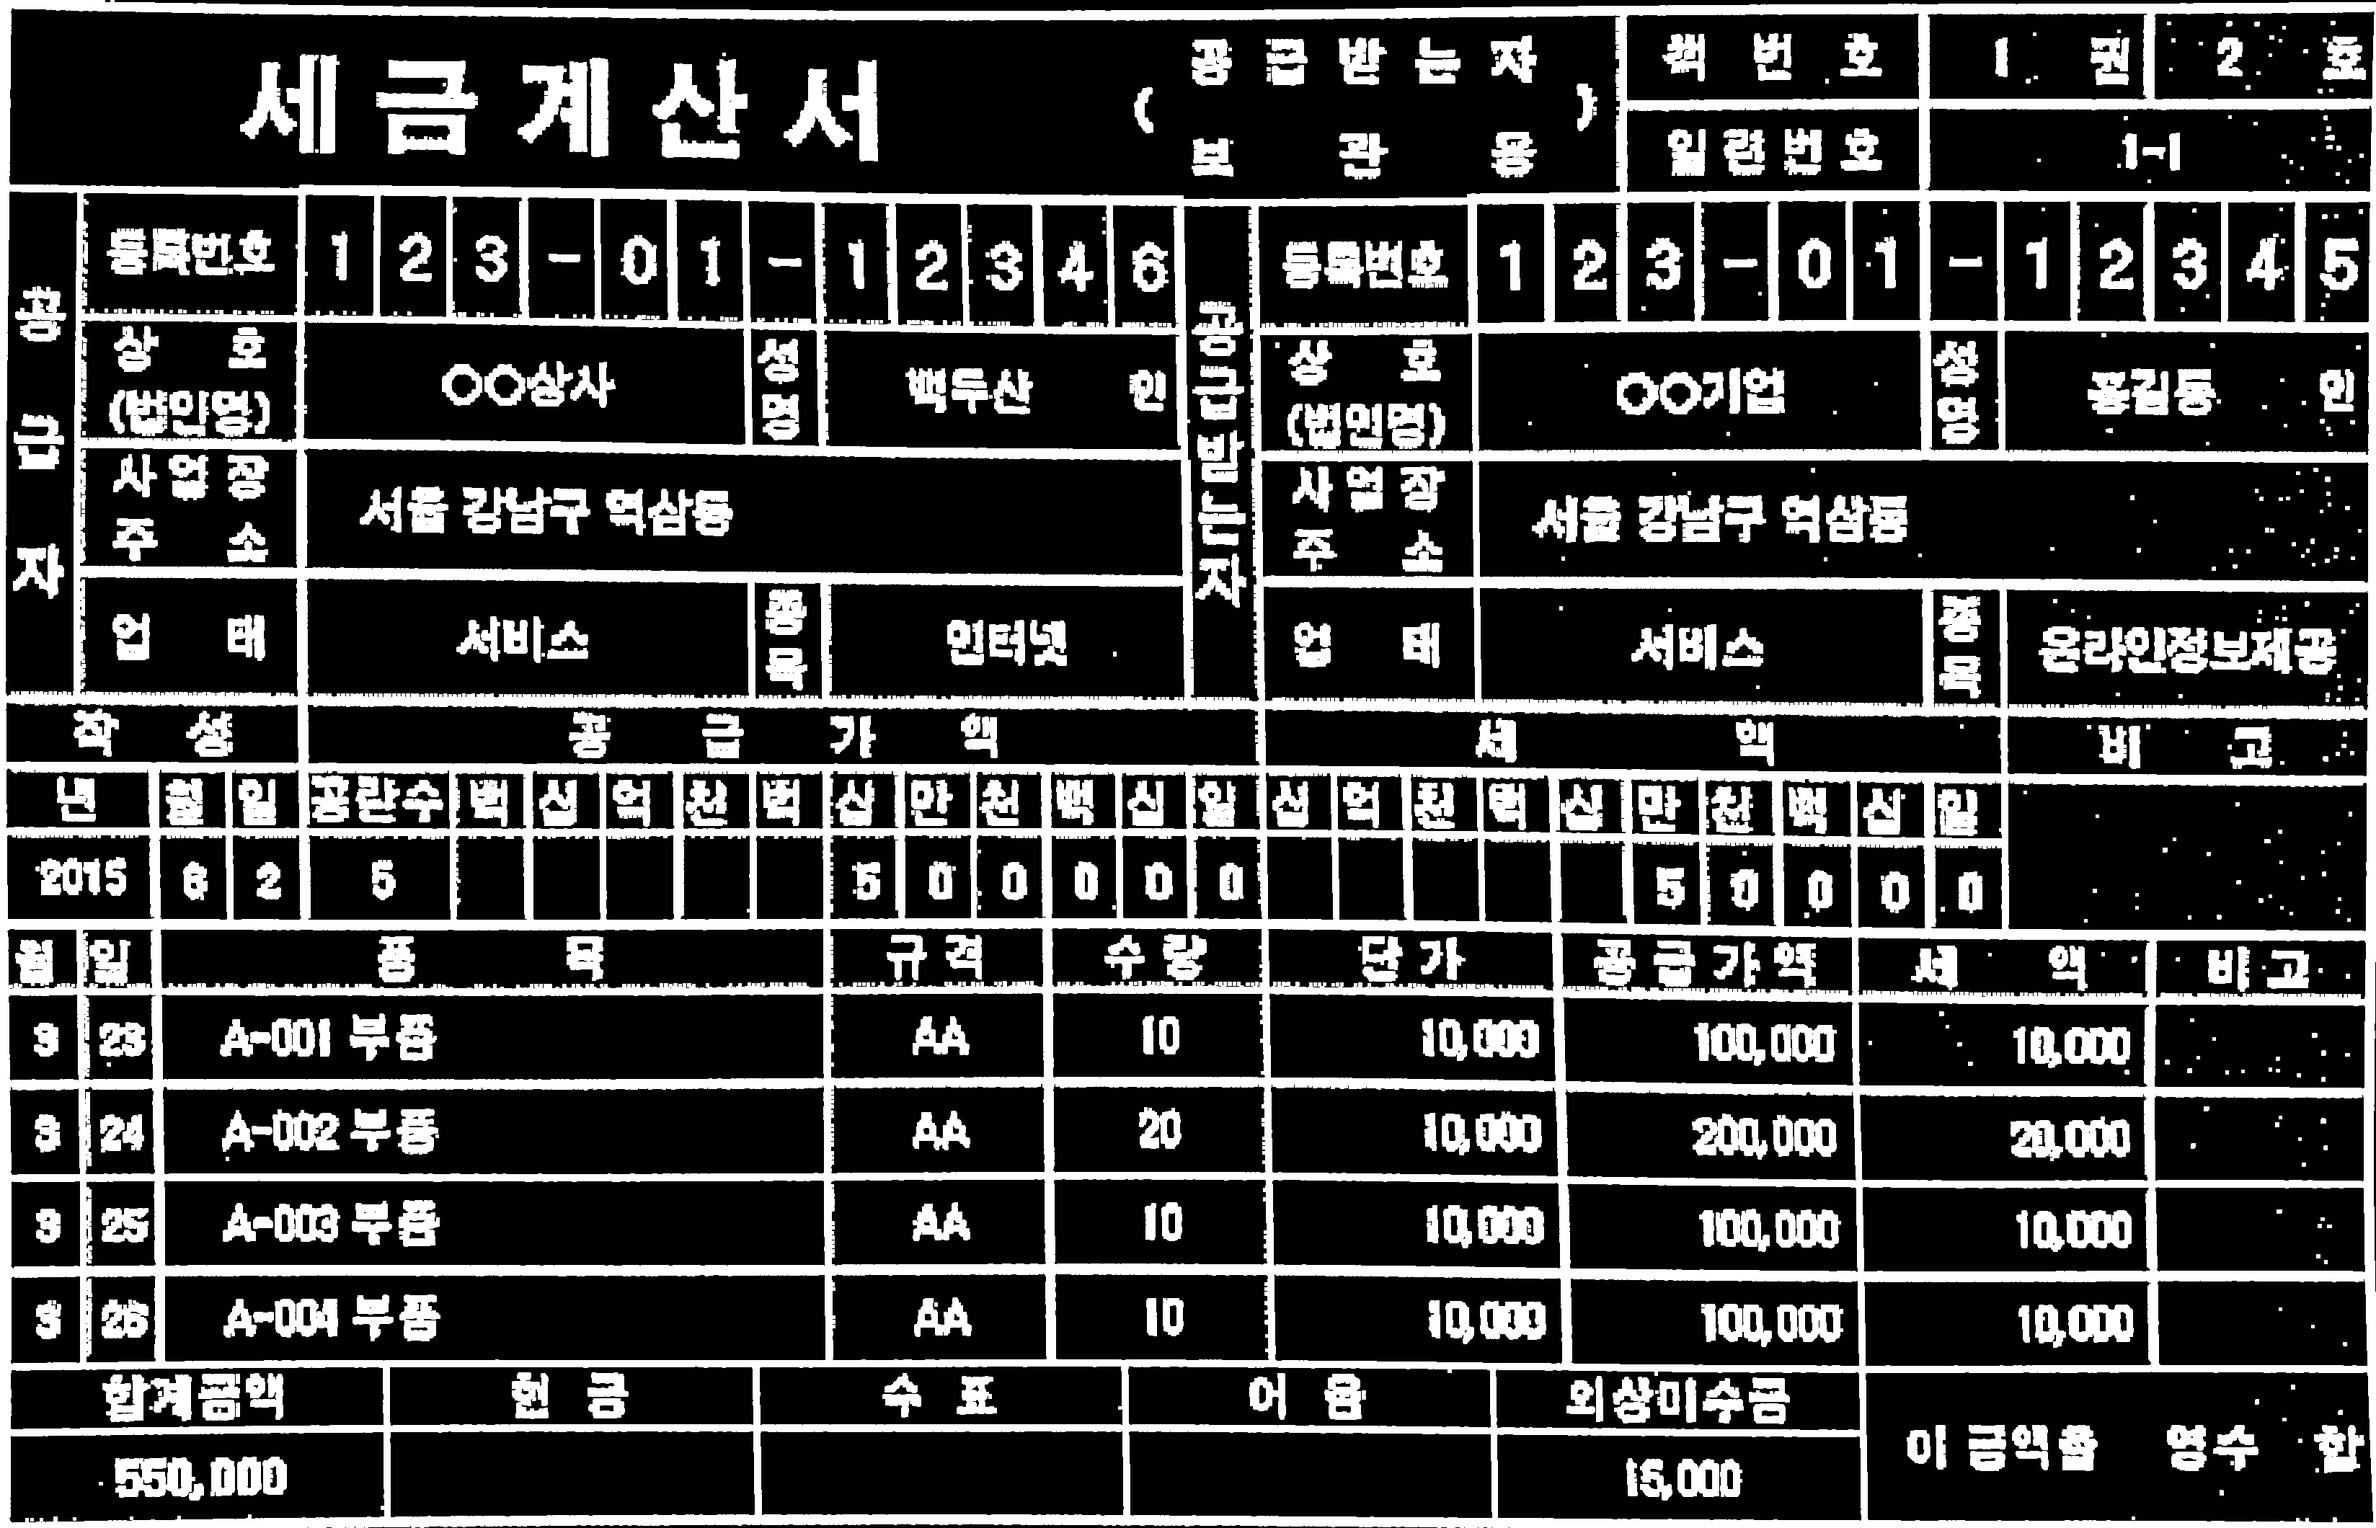
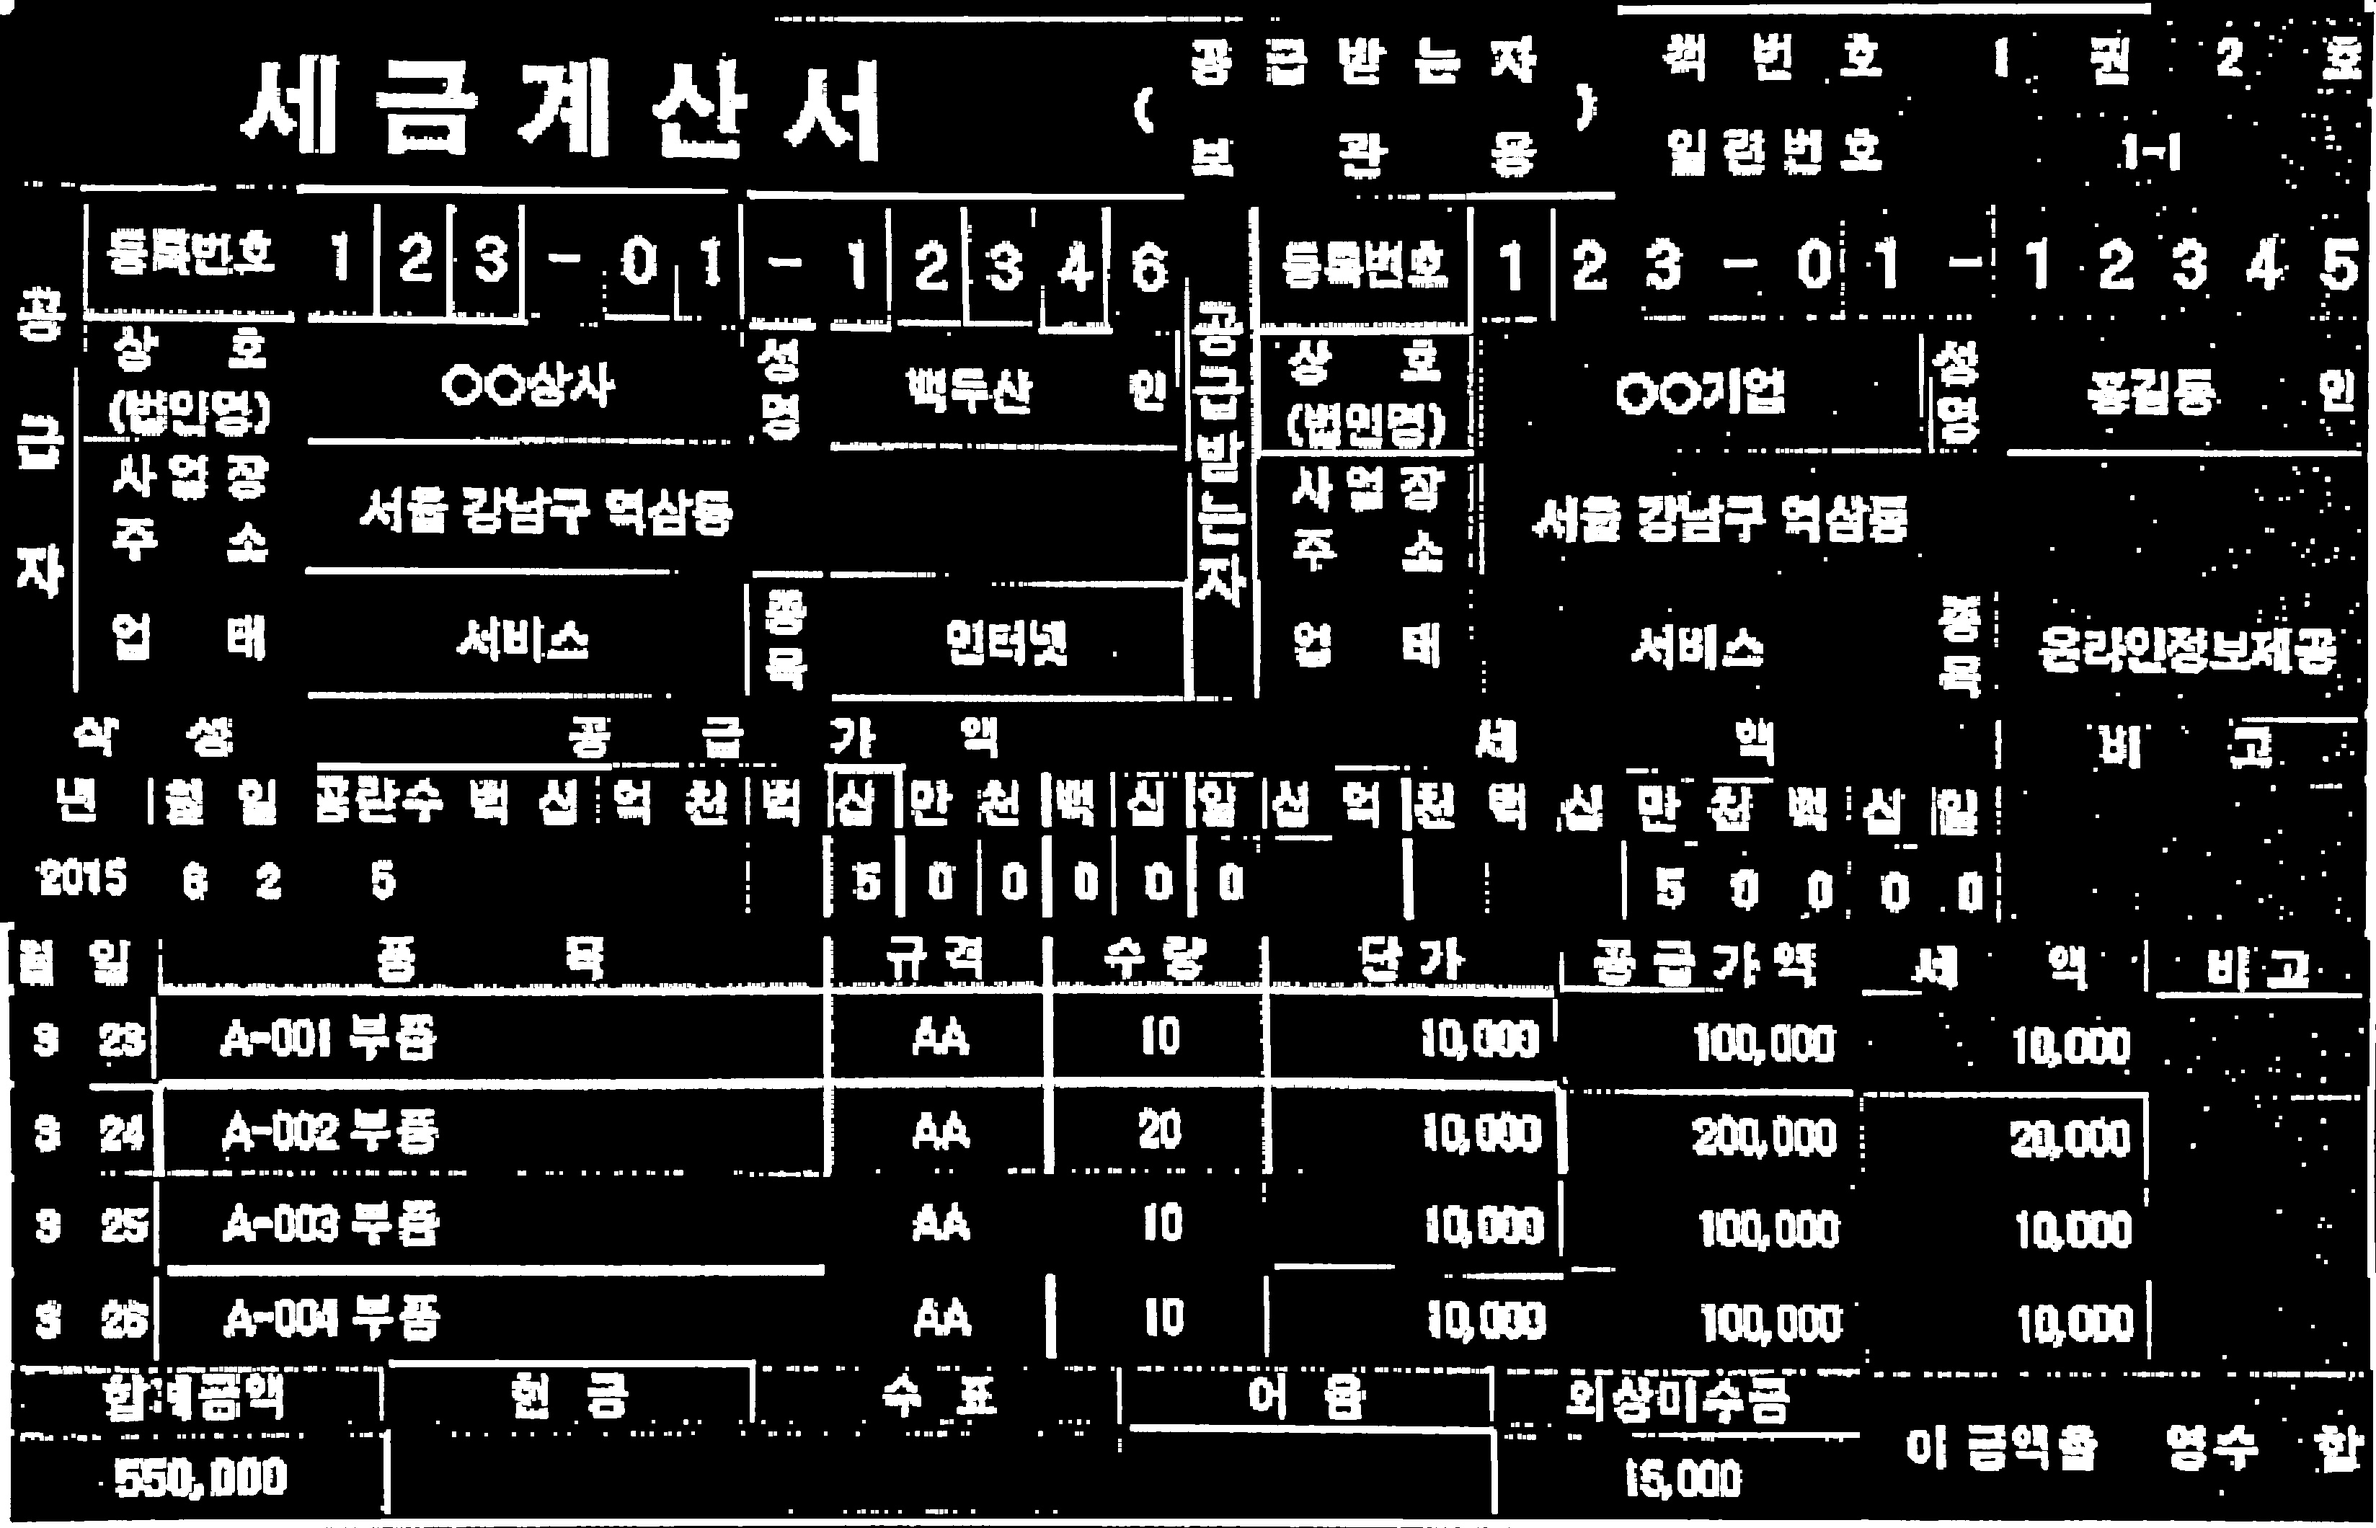
test

Changed region(s): [[0.0, 0.0, 1.0, 1.0], [0.625, 0.934, 0.75, 0.9651]]

diff --git a/server/MakeTable/Preprocessing.py b/server/MakeTable/Preprocessing.py
@@ -24,6 +24,8 @@ class Preprocessing(object):
 
         #self.Origin_image = cv2.imread(img_file)
         self.Origin_image = self.img.copy()
+        print("#######")
+        print(self.Origin_image.shape)
         self.line_image = self.img * 0  # image that only lines will be drawn
         self.erased_line = None  # image that will be erased  with white color
         self.closing_line = None
@@ -272,13 +274,16 @@ class Preprocessing(object):
         # image that will be erased with white color
         # self.closing_line = cv2.cvtColor(self.closing_line, cv2.COLOR_GRAY2BGR)
         self.erased_line = cv2.addWeighted(self.Origin_image, 1, self.closing_line, 1, 0)
-        print(self.Origin_image.shape)
-        print(self.closing_line.shape)
-        # print(self.img.shape)
-        # self.closing_line = self.closing_line[:530, :824]
-        # print(self.closing_line.shape)
-        # self.erased_line = cv2.addWeighted(self.img, 1, self.closing_line, 1, 0)
         self._show_img('_erased_img', self.erased_line)
+        # print(self.Origin_image.shape)
+        # print(self.closing_line.shape)
+        print("self.img")
+        x,y,_ = self.img.shape
+        wrap_line_image = self.closing_line[:x, :y]
+        wrap_line_image = cv2.resize(wrap_line_image, (y*4, x*4), interpolation=cv2.INTER_AREA )
+        print(wrap_line_image.shape)
+        # self.erased_line = cv2.addWeighted(self.img, 1, self.closing_line, 1, 0)
+        self._show_img('_wrap_erased_img', wrap_line_image)
 
     # ==========================================================================
     '''
@@ -321,7 +326,7 @@ class Preprocessing(object):
         print("wrap around: {}".format(np.uint8([50]) - np.uint8([100])))
         '''
         # 밝게하기(원본보다 100만큼 밝게(최대 255))
-        control = np.ones(image.shape, dtype="uint8") * 65
+        control = np.ones(image.shape, dtype="uint8") * 40
         brightnessImage = cv2.add(image, control)
         self.img = brightnessImage
 

diff --git a/server/ImageProcessing.py b/server/ImageProcessing.py
@@ -4,6 +4,12 @@ import glob,os
 from Main import *
 from MakeTable.File import *
 from Contour import *
+
+def erase_line(image):
+    erased_img = cv2.addWeighted(image, 1, cv2.imread('./data/result/_wrap_erased_img.png'), 1, 0)
+    cv2.imwrite('./contour_erasedline.jpg', erased_img)
+    return erased_img
+
 def processImage(image):
     ''' 다섯 단계의 이미지 처리(Image precessing)를 힙니다.
     현재 함수에서 순서를 변경하여 적용할 수 있습니다.
@@ -19,10 +25,12 @@ def processImage(image):
     '''
     #image = openImgFile(imageFile)
     wrappingImg = image_warping(image) # 이미지 wrapping 해주는것 => 표만 딱 잘라주기
+    eraseedImg = erase_line(wrappingImg)
+
     # wrappingImg = image
     # hei, wid = wrappingImg.shape[:2]
     # wrappingImg = cv2.resize(wrappingImg, (4*wid,4*hei),interpolation=cv2.INTER_AREA)
-    imageGray = getGrayImage(wrappingImg) # 이미지 회색으로 바꿔주는 것
+    imageGray = getGrayImage(eraseedImg) # 이미지 회색으로 바꿔주는 것
     imageBrightness = getBrightness(imageGray)
     # cv2.imshow("birght", cv2.resize(imageBrightness, dsize=(0, 0), fx=0.3, fy=0.3, interpolation=cv2.INTER_LINEAR))
     # cv2.waitKey(0)

diff --git a/server/Main.py b/server/Main.py
@@ -29,6 +29,8 @@ def Cmain(dirPath, imagePath, type,resultdir, model=0):
     # 글자따기 ================================================================================
     #croppedImages, coordinateList = processImage(imagePath+'.jpg')  # process the image and get cropped screenshot
     croppedImages, coordinateList = processImage(image)  # process the image and get cropped screenshot
+    print("doc")
+    print(image.shape)
     count = 0
     for cropImage in croppedImages:
         count += 1
@@ -37,6 +39,7 @@ def Cmain(dirPath, imagePath, type,resultdir, model=0):
 
     # 표만들기 ================================================================================
     resizeFile(image)
+    # print(cv2.imread(image).shape)
     main_process = Export2Document.Export2Document('document.jpg', verbose='v')
     main_process.process()
     main_process.ocr_by_box()
